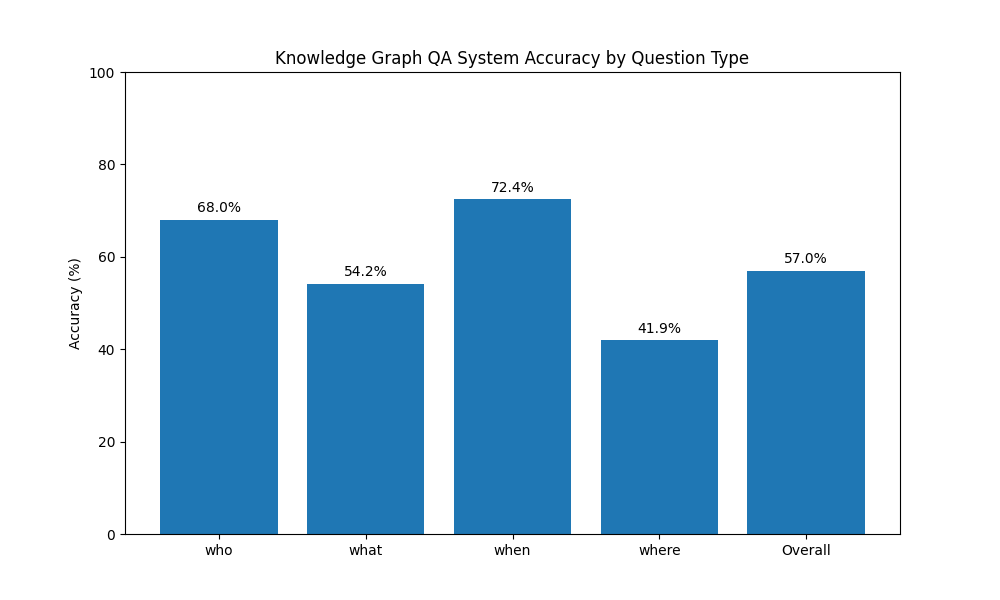
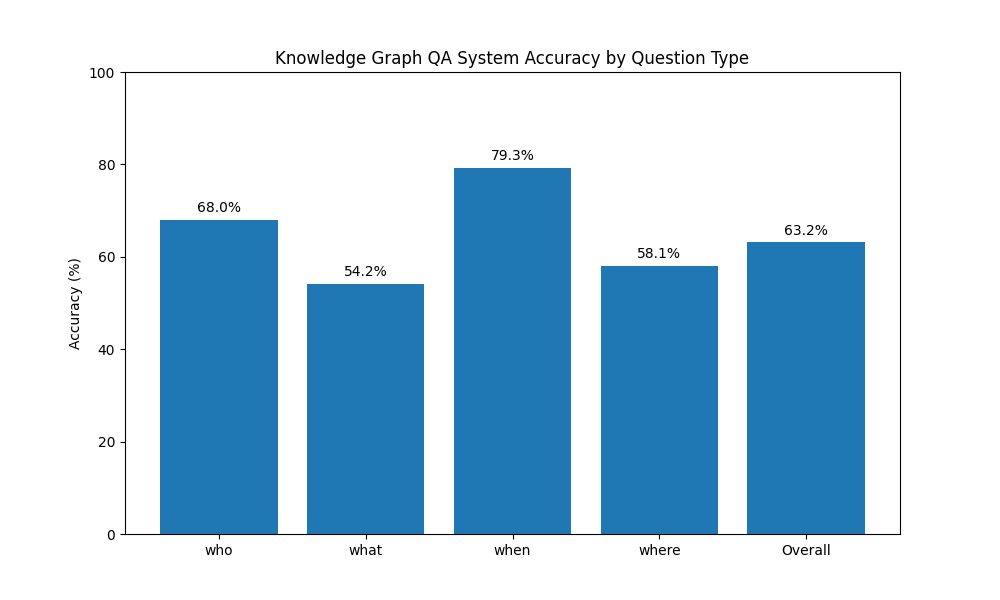
modified for time/place questions

Changed region(s): [[0.589, 0.42, 0.744, 0.57], [0.434, 0.24, 0.589, 0.33], [0.744, 0.36, 0.868, 0.45]]

diff --git a/kwQnA/_complex.py b/kwQnA/_complex.py
@@ -12,6 +12,13 @@ class ComplexFunc:
         xdate = []
         xplace = []
         
+        # Track person entities to avoid misclassifying them as places
+        person_tokens = set()
+        for ent in sentence.ents:
+            if ent.label_ == 'PERSON':
+                for i in range(ent.start, ent.end):
+                    person_tokens.add(i)
+        
         # First pass - look for standard NER entities
         for i in sentence.ents:
             if i.label_ in ('DATE', 'TIME'):
@@ -40,88 +47,133 @@ class ComplexFunc:
         # Handle complex place references
         if not xplace:
             for token in sentence:
-                if token.pos_ == 'PROPN':
-                    # Check if it's part of a place name
-                    if any(child.dep_ == 'compound' for child in token.children):
-                        place_parts = [child.text for child in token.children if child.dep_ == 'compound']
-                        place_parts.append(token.text)
-                        xplace.append(" ".join(place_parts))
-        
-        return xdate, xplace
-
-    def find_obj(self, sentence, place, time):
-        object_list = []
-        # Initialize buffer_obj to prevent UnboundLocalError
-        buffer_obj = None
-
-        # First pass: Look for direct objects
-        for word in sentence:
-            if word.dep_ in ('obj', 'dobj', 'pobj'):
-                buffer_obj = word
-                
-                # Avoid places that are objects of prepositions like "of"
-                if str(word) in place and word.nbor(-1).dep_ in ('prep') and str(word.nbor(-1)) == "of":
+                # Skip if token is part of a PERSON entity
+                if token.i in person_tokens:
                     continue
                     
-                # Standard objects (not in time or place)
-                if str(word) not in time and str(word) not in place:
-                    # Get the full phrase for compound objects
-                    obj_phrase = self._get_full_object_phrase(word)
+                # Look for location indicators
+                is_potential_place = False
+                
+                # Check if it's a proper noun
+                if token.pos_ == 'PROPN':
+                    is_potential_place = True
+                
+                # Check for prepositions that often indicate locations
+                if token.head.lemma_ in ('in', 'at', 'from', 'to', 'near', 'by'):
+                    is_potential_place = True
+                
+                # Check for classic place adjectives
+                for child in token.children:
+                    if child.dep_ == 'amod' and child.lemma_ in ('north', 'south', 'east', 'west', 'central', 'urban', 'rural'):
+                        is_potential_place = True
+                
+                if is_potential_place:
+                    # Check if it's part of a compound name
+                    if any(child.dep_ == 'compound' for child in token.children):
+                        place_parts = [child.text for child in token.children if child.dep_ == 'compound' and child.i not in person_tokens]
+                        if place_parts:  # Only proceed if we have non-person compounds
+                            place_parts.append(token.text)
+                            xplace.append(" ".join(place_parts))
+                    # Single word place
+                    elif token.pos_ == 'PROPN' and token.ent_type_ not in ('PERSON', 'ORG'):
+                        xplace.append(token.text)
+        
+        # Additional check to remove any potential person references that made it through
+        filtered_place = []
+        subject_text = None
+        
+        # Find the subject of the sentence
+        for token in sentence:
+            if token.dep_ in ('nsubj', 'nsubjpass'):
+                subject_tokens = [token.text.lower()]
+                # Get compound parts of subject
+                for child in token.children:
+                    if child.dep_ == 'compound':
+                        subject_tokens.append(child.text.lower())
+                subject_text = " ".join(subject_tokens)
+                break
+        
+        # Filter out places that match the subject
+        for place in xplace:
+            # Skip if place name is contained in the subject or vice versa
+            if subject_text and (subject_text in place.lower() or place.lower() in subject_text):
+                continue
+            filtered_place.append(place)
+        
+        return xdate, filtered_place
+    def find_obj(self, sentence, place, time):
+            object_list = []
+            # Initialize buffer_obj to prevent UnboundLocalError
+            buffer_obj = None
+
+            # First pass: Look for direct objects
+            for word in sentence:
+                if word.dep_ in ('obj', 'dobj', 'pobj'):
+                    buffer_obj = word
                     
-                    # Check for multi-word phrases with prepositions
-                    if any(child.dep_ == 'prep' for child in word.children):
-                        for child in word.children:
-                            if child.dep_ == 'prep':
-                                # For phrases like "laws of motion"
-                                for grandchild in child.children:
-                                    if grandchild.dep_ in ('pobj'):
-                                        obj_phrase = f"{obj_phrase} {child} {grandchild}"
-                                        
-                    object_list.append(obj_phrase)
+                    # Avoid places that are objects of prepositions like "of"
+                    if str(word) in place and word.nbor(-1).dep_ in ('prep') and str(word.nbor(-1)) == "of":
+                        continue
                         
-                # Handle places as objects when not part of "of" phrases
-                elif str(word) in place and str(word.nbor(-1)) != "of":
-                    if not object_list:  # Only add if no other objects
-                        object_list.append(str(word))
-                        
-                # Handle times as objects when no other objects
-                elif str(word) in time and not object_list:
-                    object_list.append(str(word))
-        
-        # Second pass: If no direct objects found, look for prepositional objects
-        if not object_list and not buffer_obj:
-            for word in sentence:
-                if word.dep_ == 'prep':
-                    for child in word.children:
-                        if child.dep_ == 'pobj':
-                            # Special handling for time prepositions
-                            if word.text.lower() in ('in', 'on', 'at', 'during', 'by'):
-                                # Handle time objects
-                                if str(child) in time:
-                                    buffer_obj = child
-                                    object_list.append(str(child))
-                                # Handle place objects
-                                elif str(child) in place:
-                                    buffer_obj = child
-                                    object_list.append(str(child))
-                                # Handle regular objects in prepositional phrases
-                                else:
-                                    obj_phrase = self._get_full_object_phrase(child)
-                                    buffer_obj = child
-                                    object_list.append(obj_phrase)
-        
-        # If still no objects found, try to extract important nouns
-        if not object_list and not buffer_obj:
-            for word in sentence:
-                if word.pos_ == 'NOUN' and word.dep_ not in ('nsubj', 'nsubjpass'):
-                    # Exclude common stop words
-                    if word.text.lower() not in ('year', 'time', 'day', 'thing', 'person'):
+                    # Standard objects (not in time or place)
+                    if str(word) not in time and str(word) not in place:
+                        # Get the full phrase for compound objects
                         obj_phrase = self._get_full_object_phrase(word)
-                        buffer_obj = word
+                        
+                        # Check for multi-word phrases with prepositions
+                        if any(child.dep_ == 'prep' for child in word.children):
+                            for child in word.children:
+                                if child.dep_ == 'prep':
+                                    # For phrases like "laws of motion"
+                                    for grandchild in child.children:
+                                        if grandchild.dep_ in ('pobj'):
+                                            obj_phrase = f"{obj_phrase} {child} {grandchild}"
+                                            
                         object_list.append(obj_phrase)
-                        break
-        
-        return object_list, buffer_obj
+                            
+                    # Handle places as objects when not part of "of" phrases
+                    elif str(word) in place and str(word.nbor(-1)) != "of":
+                        if not object_list:  # Only add if no other objects
+                            object_list.append(str(word))
+                            
+                    # Handle times as objects when no other objects
+                    elif str(word) in time and not object_list:
+                        object_list.append(str(word))
+            
+            # Second pass: If no direct objects found, look for prepositional objects
+            if not object_list and not buffer_obj:
+                for word in sentence:
+                    if word.dep_ == 'prep':
+                        for child in word.children:
+                            if child.dep_ == 'pobj':
+                                # Special handling for time prepositions
+                                if word.text.lower() in ('in', 'on', 'at', 'during', 'by'):
+                                    # Handle time objects
+                                    if str(child) in time:
+                                        buffer_obj = child
+                                        object_list.append(str(child))
+                                    # Handle place objects
+                                    elif str(child) in place:
+                                        buffer_obj = child
+                                        object_list.append(str(child))
+                                    # Handle regular objects in prepositional phrases
+                                    else:
+                                        obj_phrase = self._get_full_object_phrase(child)
+                                        buffer_obj = child
+                                        object_list.append(obj_phrase)
+            
+            # If still no objects found, try to extract important nouns
+            if not object_list and not buffer_obj:
+                for word in sentence:
+                    if word.pos_ == 'NOUN' and word.dep_ not in ('nsubj', 'nsubjpass'):
+                        # Exclude common stop words
+                        if word.text.lower() not in ('year', 'time', 'day', 'thing', 'person'):
+                            obj_phrase = self._get_full_object_phrase(word)
+                            buffer_obj = word
+                            object_list.append(obj_phrase)
+                            break
+            
+            return object_list, buffer_obj
 
     def _get_full_object_phrase(self, word):
         """Extract full noun phrase for an object"""
